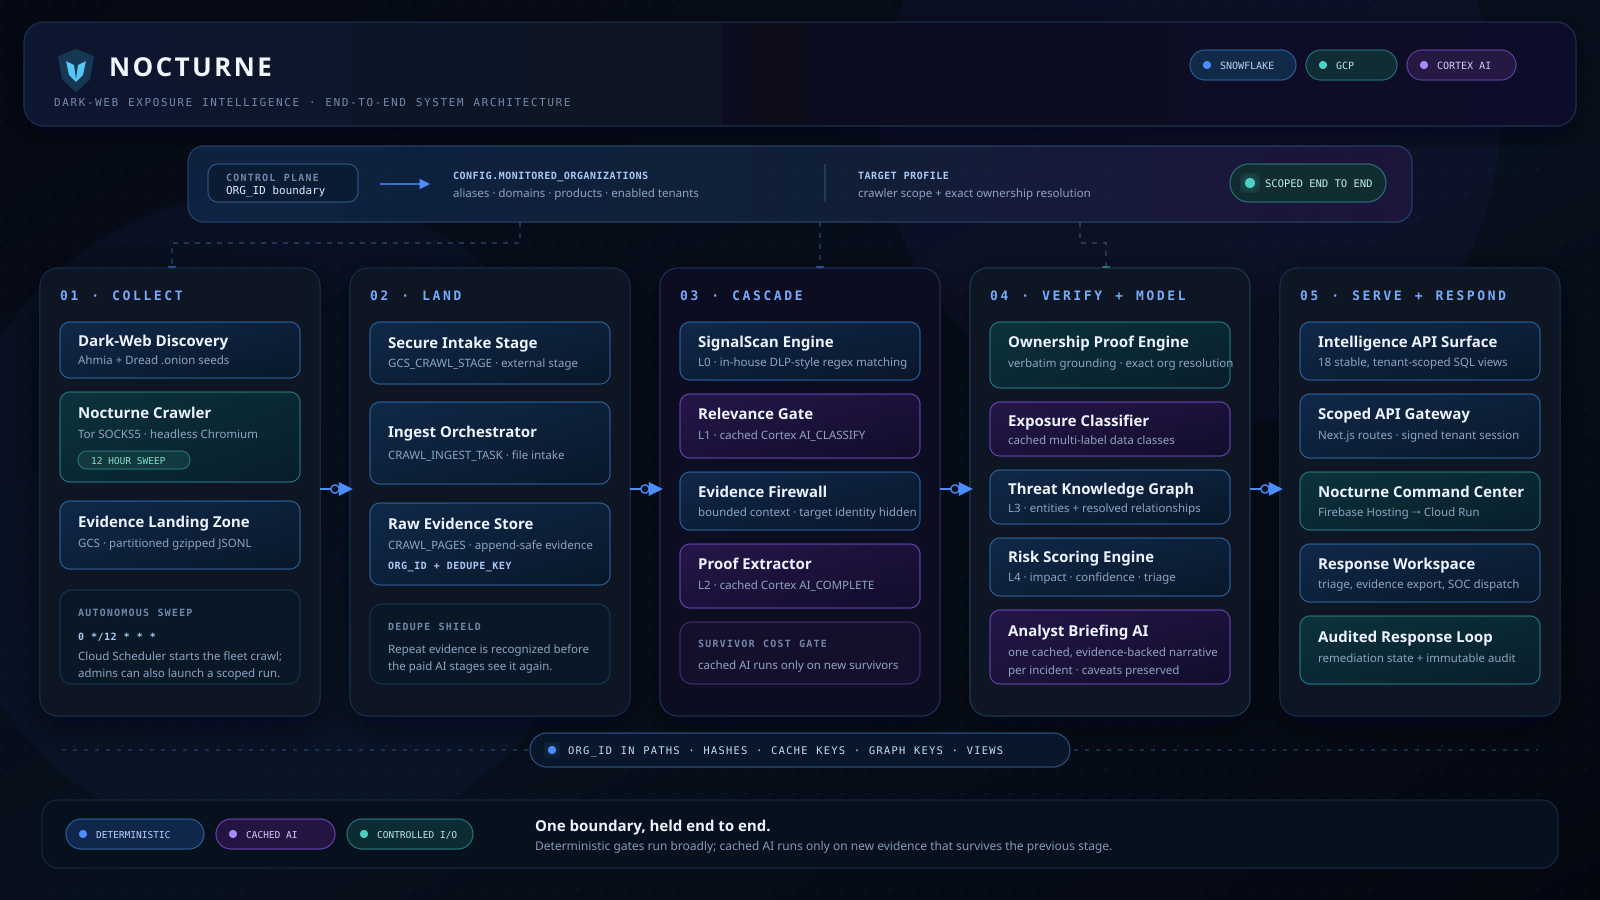
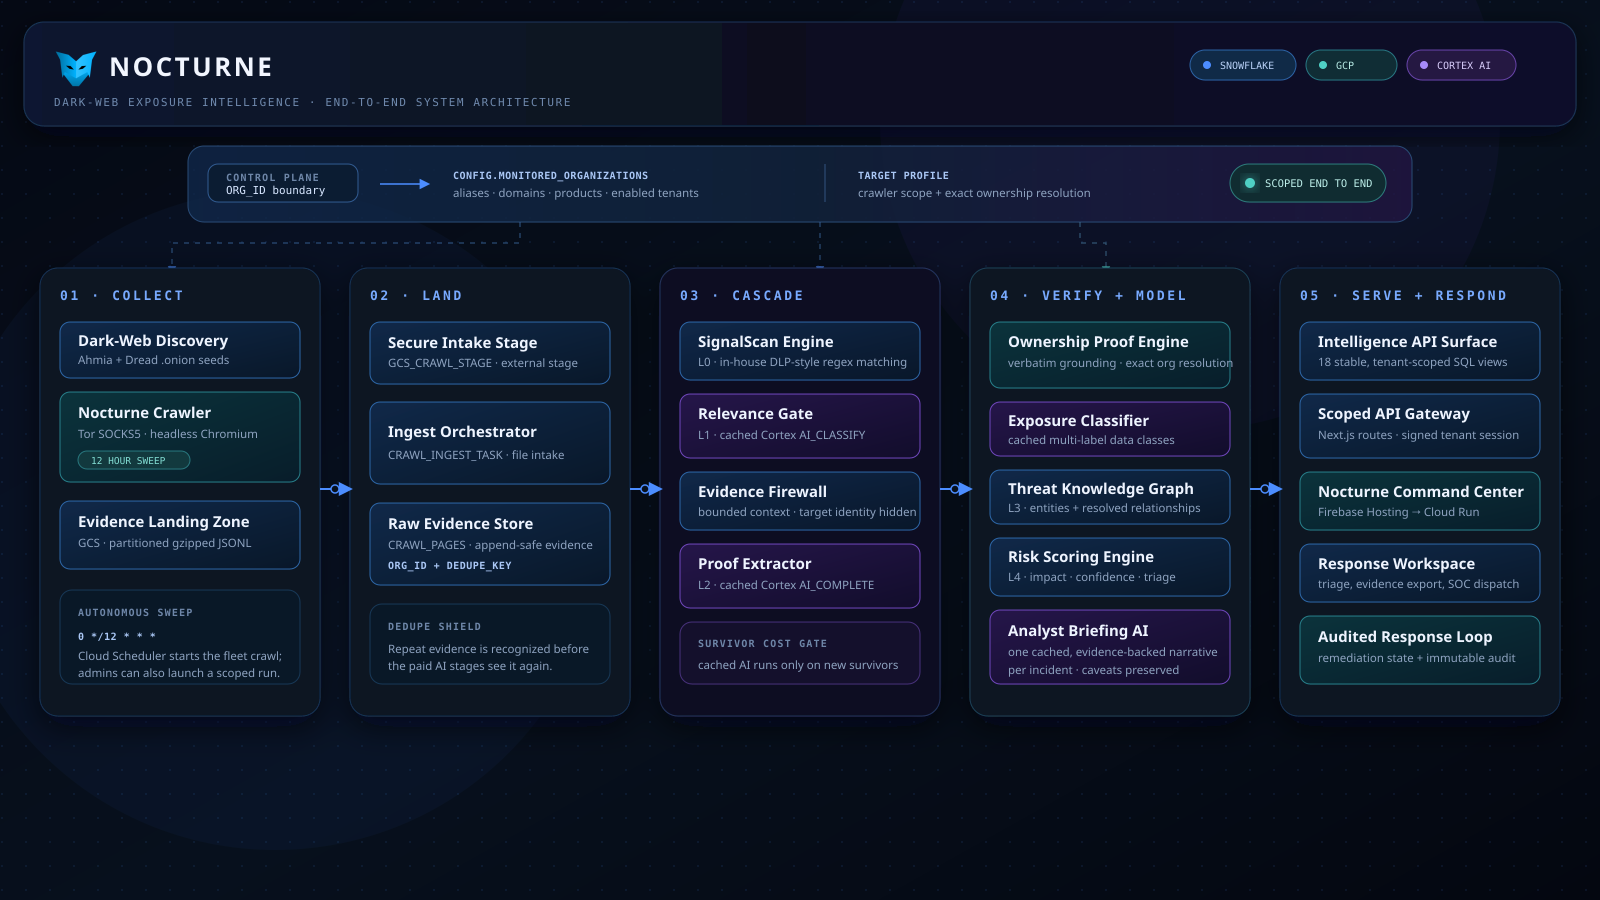
Adding architecture daigram

diff --git a/README.md b/README.md
@@ -21,6 +21,7 @@
   <img src="https://img.shields.io/badge/Python_3.11-04070E?style=for-the-badge&logo=python&logoColor=F4C96C" alt="Python 3.11" />
   <img src="https://img.shields.io/badge/Tor-04070E?style=for-the-badge&logo=torproject&logoColor=A78BFA" alt="Tor" />
   <img src="https://img.shields.io/badge/Cloud_Run-04070E?style=for-the-badge&logo=googlecloud&logoColor=4C8DFF" alt="Google Cloud Run" />
+  <img src="https://img.shields.io/badge/Firebase-04070E?style=for-the-badge&logo=firebase&logoColor=FFCA28" alt="Firebase" />
 </p>
 
 <p align="center">
